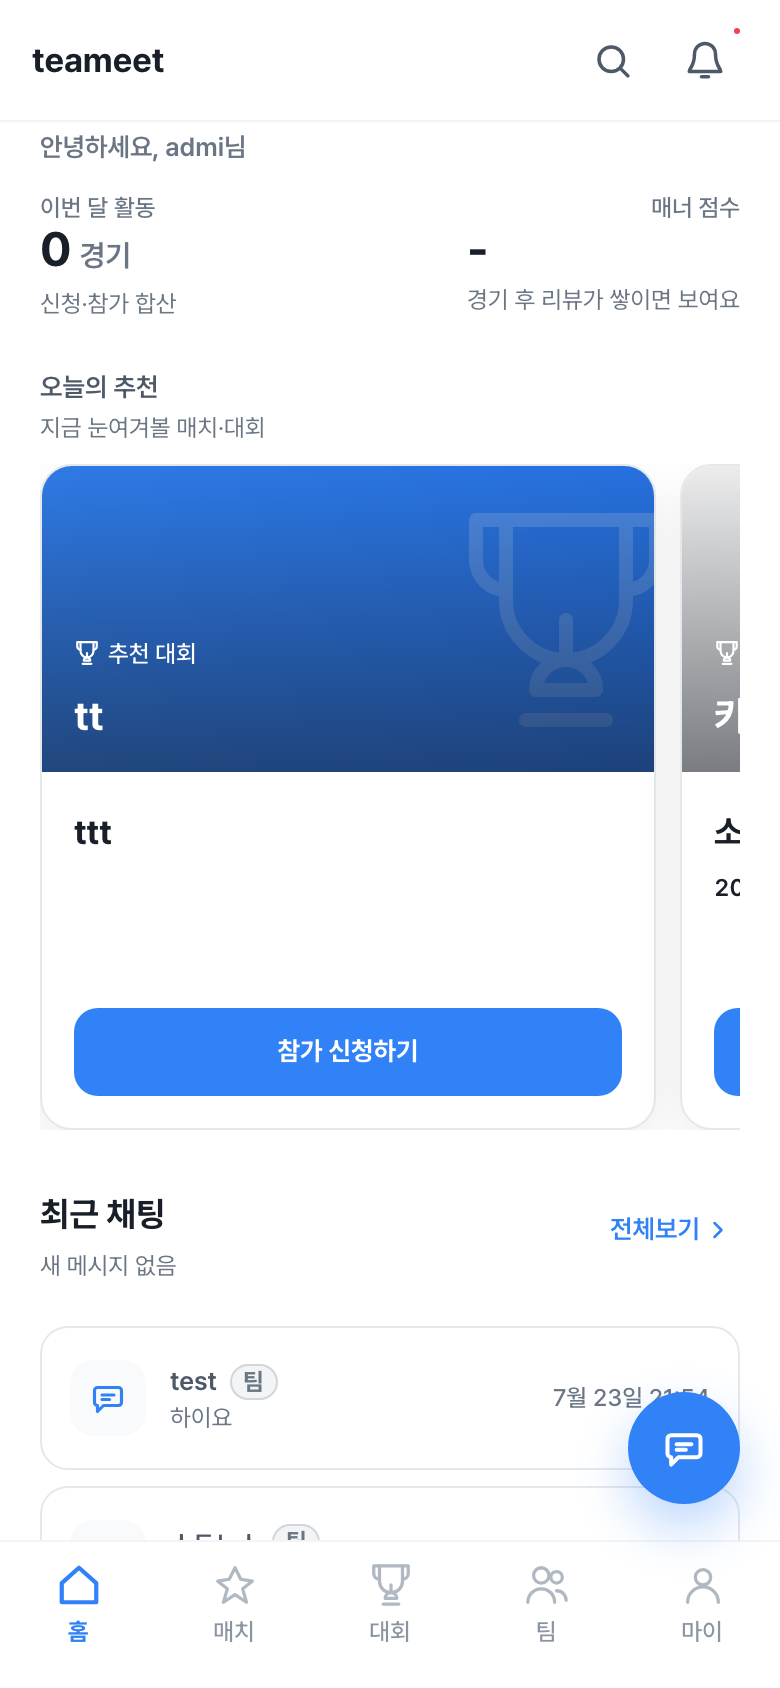
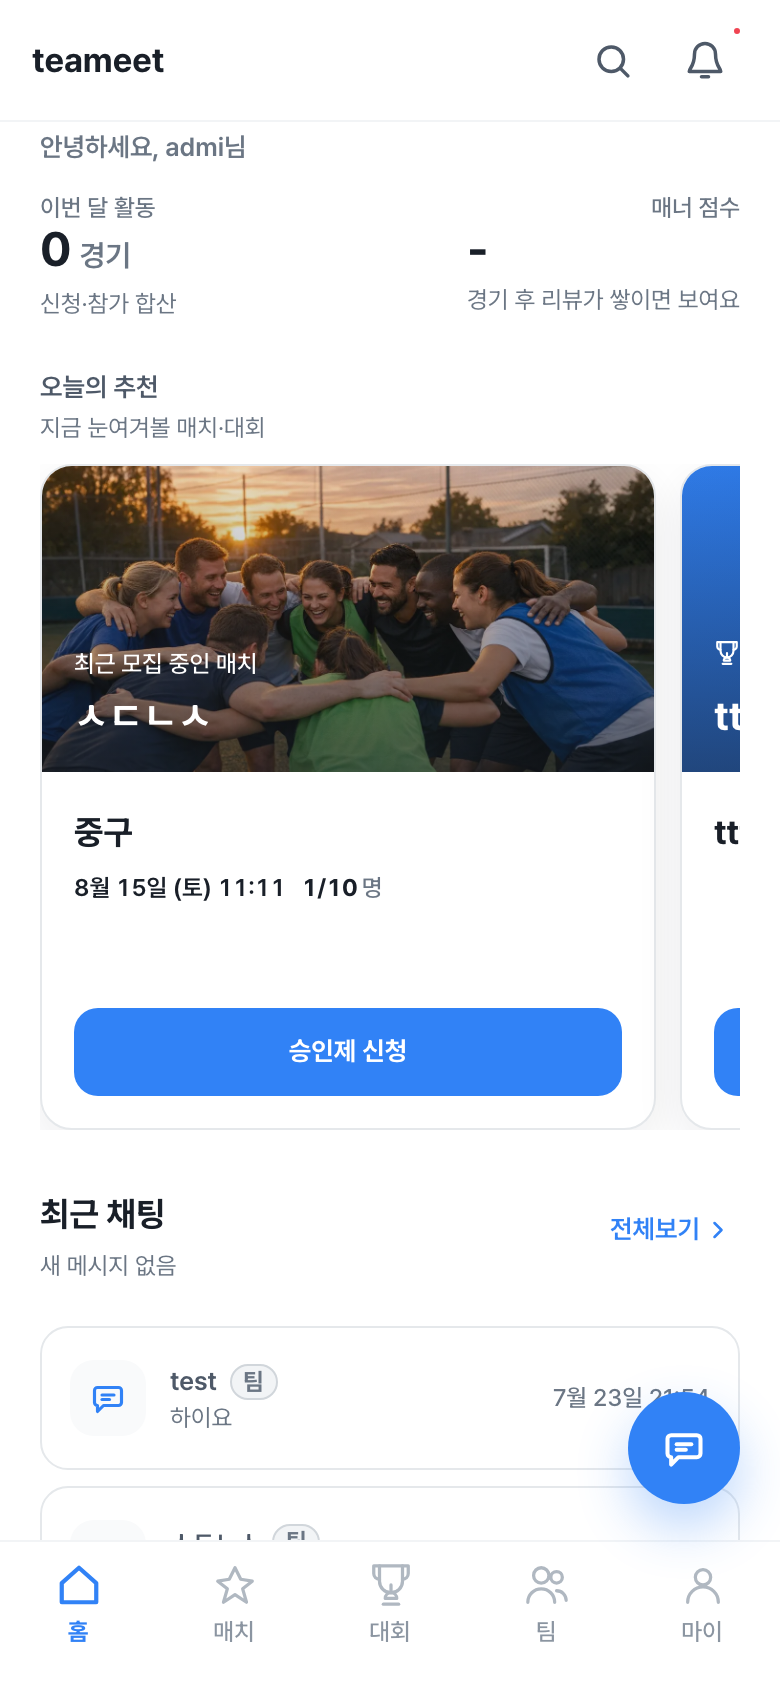
fix(scripts): 폴백 측정을 대회별 카드로 특정 + 목록 조회 실패를 삼키지 않게
Copilot 리뷰 반영.
- renderedWithCover 가 '아무 카드나 이 커버 URL 을 쓰더라'로 판정해, 노출이 꺼져 카드가
  아예 없는 대회도 통과할 수 있었다. aria-label 로 그 대회의 카드를 특정해 배경을 보고,
  cardFound / cardBackground 를 함께 남겨 '카드가 없음'과 '폴백 실패'를 구분한다.
  filter 는 trim 한 값으로 걸러놓고 비교는 원본으로 하던 불일치도 함께 고쳤다.
- 대회 목록 조회 실패를 .catch(() => []) 로 삼키면 대상 0건이라 측정이 '통과'처럼 보였다.
  실패 사실을 report.promoFallback.error 와 콘솔 경고로 남긴다.

alpha 재실행으로 판정 유지 확인: Test123(카드="카드제목제목", 노출=true)
cardFound=true, renderedWithCover=true, cardBackground 에 커버 URL 그대로.

Claude-Session: https://claude.ai/code/session_018vZVSiJdxLdWk4LQsTAPna

Changed region(s): [[0.0308, 0.2773, 0.9538, 0.5545], [0.3385, 0.6161, 0.5231, 0.6469], [0.4308, 0.5237, 0.4923, 0.5545]]

diff --git a/scripts/verify_alpha_promo_image_upload.js b/scripts/verify_alpha_promo_image_upload.js
@@ -130,13 +130,26 @@ async function measurePromoFallback(page, tournaments) {
     (item) => (item.coverImageUrl || '').trim() && !(item.promoHomeImageUrl || '').trim(),
   );
   return {
-    coverOnlyTournaments: coverOnly.map((item) => ({
-      title: item.title,
-      coverImageUrl: item.coverImageUrl,
-      promoHomeImageUrl: item.promoHomeImageUrl,
-      // 폴백이 걸렸다면 이 커버 URL 이 홈 히어로 배경에 그대로 들어가 있어야 한다.
-      renderedWithCover: cards.some((card) => card.background.includes(item.coverImageUrl)),
-    })),
+    coverOnlyTournaments: coverOnly.map((item) => {
+      const cover = (item.coverImageUrl || '').trim();
+      // 히어로 카드의 aria-label 은 promoHomeTitle(없으면 대회명)을 쓴다 — 그 대회의 카드를
+      // 특정해서 배경을 본다. "아무 카드나 이 URL 을 쓰더라" 로 판정하면 노출이 꺼져 카드가
+      // 아예 없는 대회도 다른 카드 때문에 통과할 수 있다.
+      const cardTitle = (item.promoHomeTitle || '').trim() || item.title;
+      const card = cards.find((entry) => entry.label === `대회 상세 — ${cardTitle}`);
+      return {
+        title: item.title,
+        cardTitle,
+        promoHomeEnabled: item.promoHomeEnabled,
+        coverImageUrl: cover,
+        promoHomeImageUrl: item.promoHomeImageUrl,
+        // 이 대회의 카드가 렌더됐는지부터 구분한다 — 안 보이는 것과 폴백 실패는 다른 사실이다.
+        cardFound: Boolean(card),
+        cardBackground: card?.background ?? null,
+        // 폴백이 걸렸다면 이 커버 URL 이 그 카드 배경에 그대로 들어가 있어야 한다.
+        renderedWithCover: Boolean(card && cover && card.background.includes(cover)),
+      };
+    }),
     cards,
   };
 }
@@ -241,15 +254,25 @@ async function main() {
         await shotPage.screenshot({ path: path.join(OUT, `${PHASE}-${name}-${widthLabel}.png`) });
         console.log(`[${PHASE}] 캡처: ${PHASE}-${name}-${widthLabel}.png`);
         if (name === 'home' && widthLabel === 'desktop') {
-          const listed = await fetch(`${BASE}/api/v1/tournaments?limit=30`)
-            .then((response) => response.json())
-            .then((json) => json?.data?.items ?? [])
-            .catch(() => []);
-          report.promoFallback = await measurePromoFallback(shotPage, listed);
-          for (const item of report.promoFallback.coverOnlyTournaments) {
-            console.log(
-              `[${PHASE}] 커버 폴백 — ${item.title}: promoHomeImageUrl=${item.promoHomeImageUrl} → 홈 히어로에 커버 반영=${item.renderedWithCover}`,
-            );
+          // 목록 조회가 실패하면 대상이 0건이라 측정이 '통과'처럼 보인다 — 조용히 넘기지 않고
+          // 실패 사실을 report 와 콘솔에 남겨 근거 없는 결과를 구분할 수 있게 한다.
+          let listed = null;
+          try {
+            const listResponse = await fetch(`${BASE}/api/v1/tournaments?limit=30`);
+            if (!listResponse.ok) throw new Error(`HTTP ${listResponse.status}`);
+            listed = (await listResponse.json())?.data?.items ?? null;
+            if (!Array.isArray(listed)) throw new Error('예상과 다른 응답 형식');
+          } catch (error) {
+            report.promoFallback = { error: `대회 목록 조회 실패: ${error.message}` };
+            console.warn(`[${PHASE}] ${report.promoFallback.error} — 폴백 측정을 건너뜁니다.`);
+          }
+          if (listed) {
+            report.promoFallback = await measurePromoFallback(shotPage, listed);
+            for (const item of report.promoFallback.coverOnlyTournaments) {
+              console.log(
+                `[${PHASE}] 커버 폴백 — ${item.title}(카드="${item.cardTitle}", 노출=${item.promoHomeEnabled}): 카드발견=${item.cardFound} 커버반영=${item.renderedWithCover}`,
+              );
+            }
           }
         }
       }
